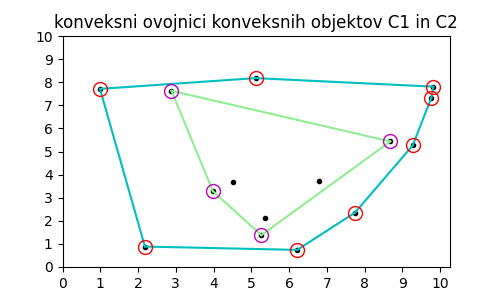
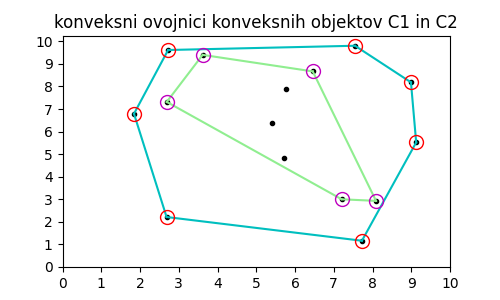
polarne

diff --git a/konveksne_objekte.py b/konveksne_objekte.py
@@ -76,10 +76,11 @@ for plot_id in (1, 2, 3, 4, 5):
         a=np.random.uniform(0, 10, size=(n, 2)) #dr tocka skozi katera grejo premice
         
         for i in range(len(b)):
-            ax.axline(a[i],b[i], linewidth=1, color='k') 
+          #  ax.axline(a[i],b[i], linewidth=1, color='k') 
+            ax.axline(b[i],slope=np.random.uniform(-np.pi,np.pi),color='k')
         
         # a modre b rdece
-        ax.plot(*a.T, 'bo',markersize=3)
+        #ax.plot(*a.T, 'bo',markersize=3)
         ax.plot(*b.T, 'ro',markersize=3)
         
         
